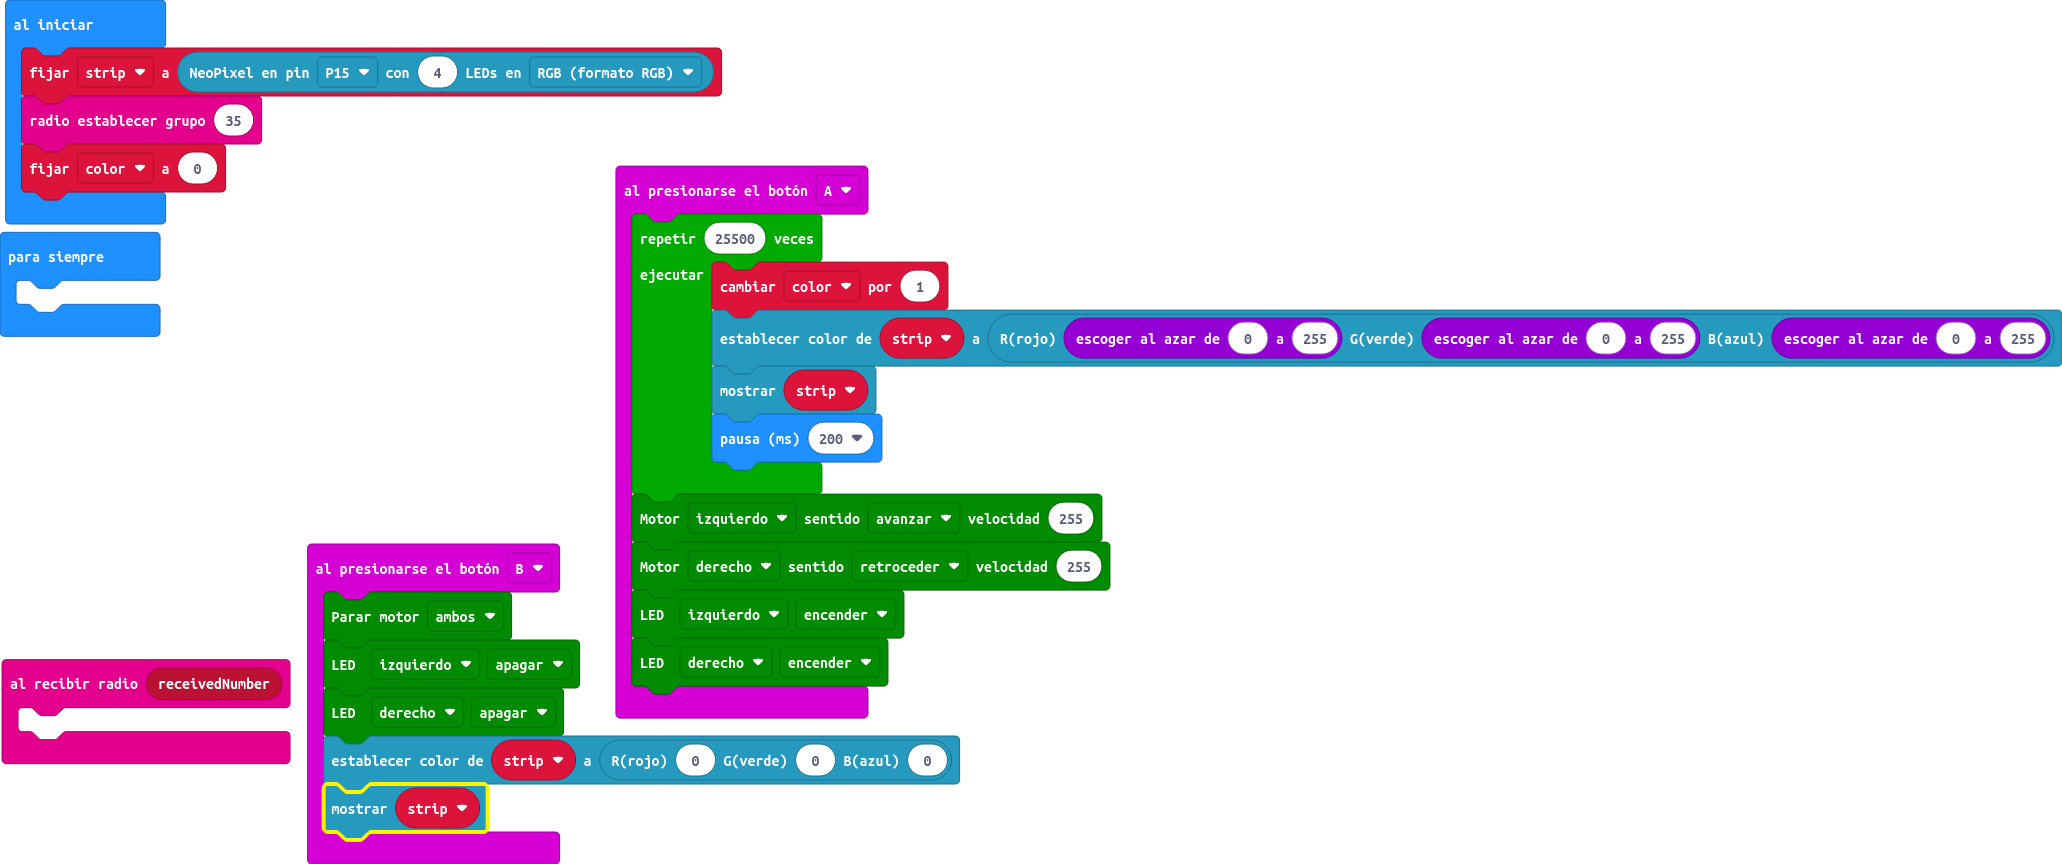
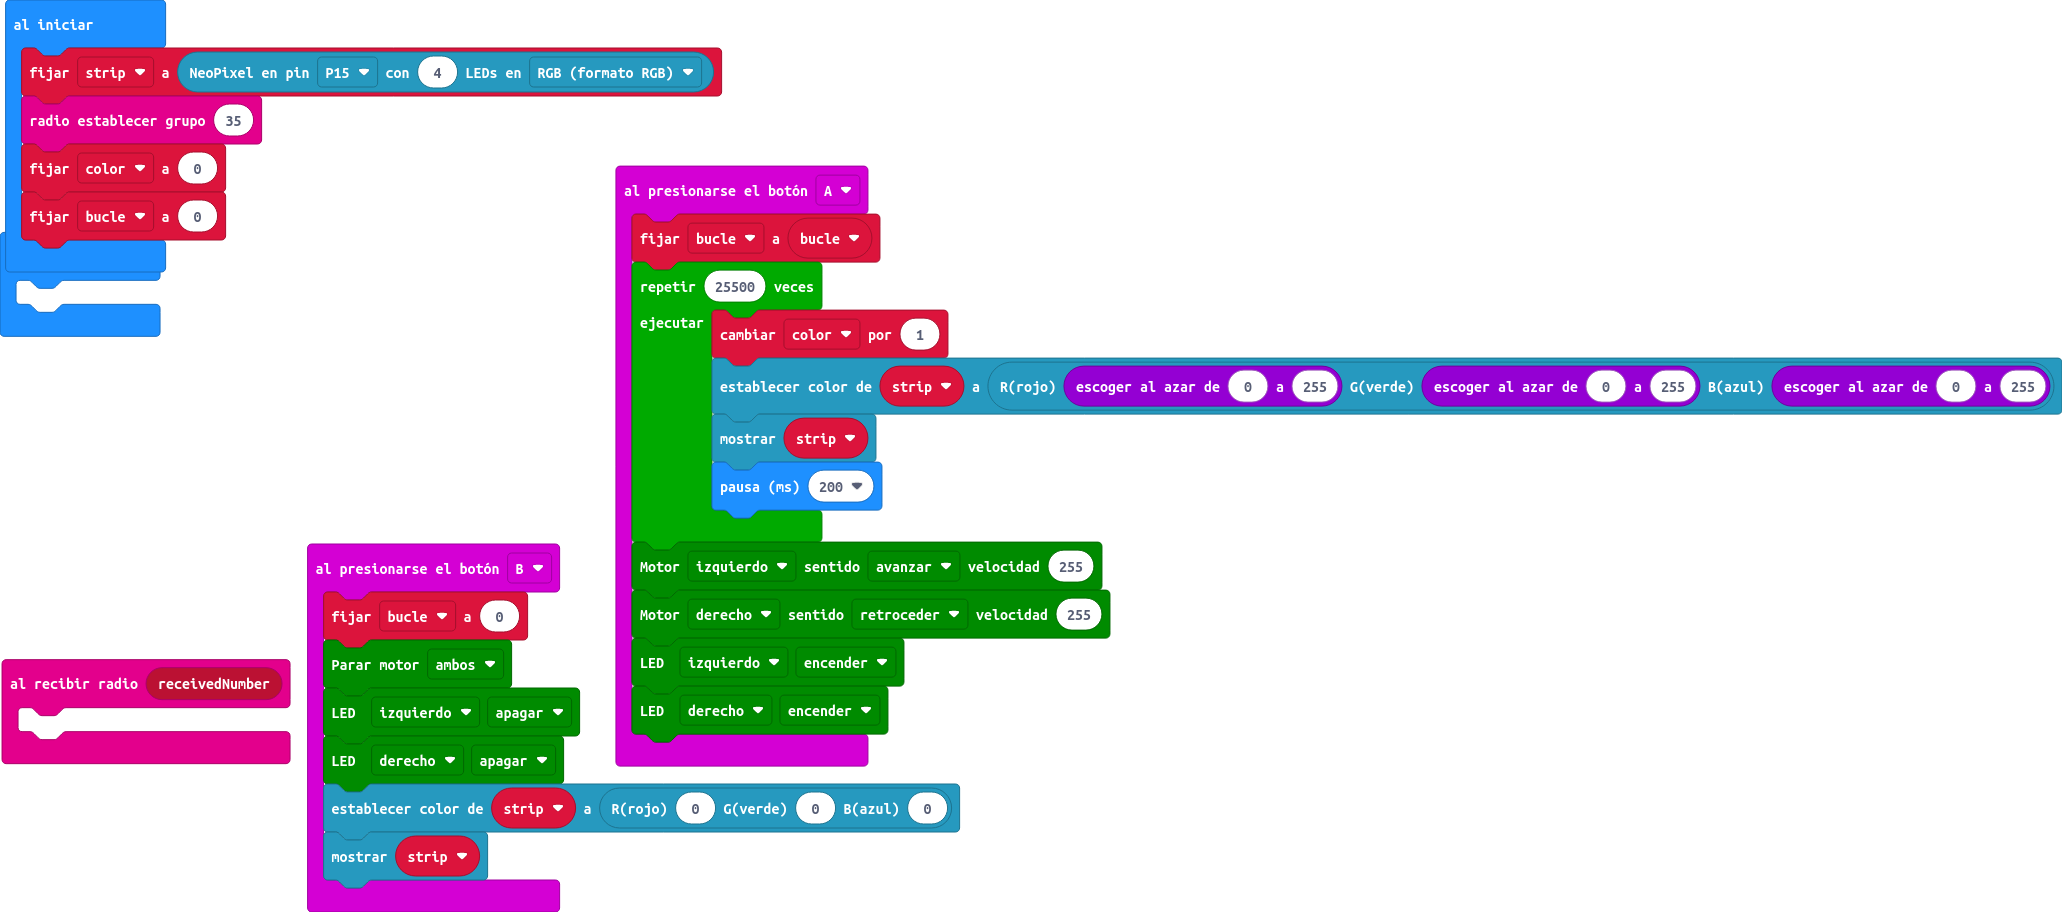
Actualizar main.blocks, main.ts

Changed region(s): [[0.0, 0.1562, 1.0, 0.9688], [0.0, 0.0312, 0.3414, 0.4062]]

diff --git a/main.ts b/main.ts
@@ -2,6 +2,7 @@ radio.onReceivedNumber(function (receivedNumber) {
 	
 })
 input.onButtonPressed(Button.A, function () {
+    bucle = bucle
     for (let index = 0; index < 25500; index++) {
         color += 1
         strip.showColor(neopixel.rgb(randint(0, 255), randint(0, 255), randint(0, 255)))
@@ -14,16 +15,19 @@ input.onButtonPressed(Button.A, function () {
     maqueen.writeLED(maqueen.LED.LEDRight, maqueen.LEDswitch.turnOn)
 })
 input.onButtonPressed(Button.B, function () {
+    bucle = 0
     maqueen.motorStop(maqueen.Motors.All)
     maqueen.writeLED(maqueen.LED.LEDLeft, maqueen.LEDswitch.turnOff)
     maqueen.writeLED(maqueen.LED.LEDRight, maqueen.LEDswitch.turnOff)
     strip.showColor(neopixel.rgb(0, 0, 0))
     strip.show()
 })
+let bucle = 0
 let strip: neopixel.Strip = null
 strip = neopixel.create(DigitalPin.P15, 4, NeoPixelMode.RGB)
 radio.setGroup(35)
 let color = 0
+bucle = 0
 basic.forever(function () {
 	
 })
